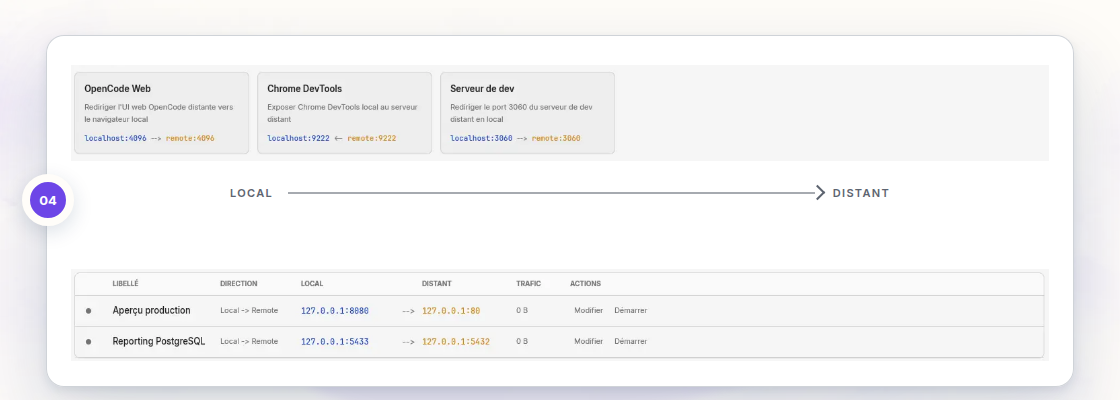
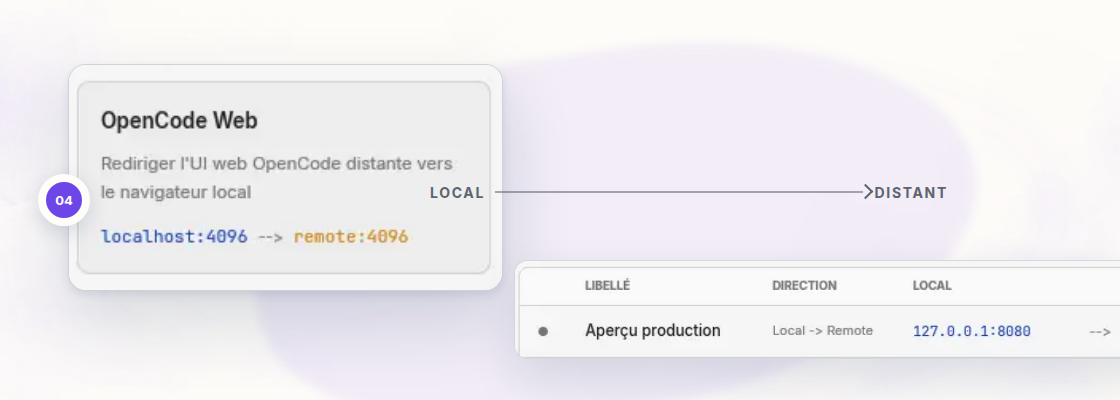
fix(onboarding): rebuild the three scenes that failed at display size
Authored by Codex from the correction brief; integrated unchanged. Only the
three slugs were re-exported, nothing else in the set moved.

The tunnels scene now shows one preset card enlarged, with `localhost:4096 -->
remote:4096` legible, and a single table row rather than the whole grid. The
support context scene shows one real message instead of anonymous blocks, so
there is something to read. The user follow scene drops the account card and
keeps the tab bar with `Mes demandes` active over three regular ghost rows.

All three now pass the criterion the brief added: shrunk to 560x200, the
subject is identifiable at a glance.

One residual point, and it comes from the fragment rather than the composition:
`user-tabs-only.png` still carries the grey band the tabs sit on, so that strip
reads heavier than the airy white around it. Cropping it out would cut into the
pills themselves; fixing it properly means compositing the tabs individually.
Not worth another round on its own — noted here so it is a decision rather than
an oversight.

diff --git a/docs/design/onboarding-role-visuals.html b/docs/design/onboarding-role-visuals.html
@@ -61,12 +61,18 @@
     #user-02 .float-pills .pill:nth-child(2){transform:translateX(42px)}
     #user-02 .float-pills .pill:nth-child(3){transform:translateX(8px)}
     #user-03 .paper{opacity:.25}
-    #user-03 .ghosts{position:absolute;inset:28px 100px;display:grid;grid-template-columns:1fr 1fr;gap:160px}
-    #user-03 .ghost-col{display:grid;gap:12px}
-    #user-03 .ghost{height:55px;border:1px solid #edf0f4;border-radius:18px;background:rgba(245,247,250,.86)}
-    #user-03 .window{left:258px;top:126px;width:606px;height:136px}
-    #user-03 .number{left:96px;top:174px}
-    #user-03 .route-line{position:absolute;left:140px;top:201px;width:123px;height:76px;border-left:2px solid var(--line);border-top:2px solid var(--line);border-radius:34px 0 0 0;transform:translateY(-1px)}
+    #user-03 .tabs-window{position:absolute;left:136px;top:47px;width:848px;height:65px;overflow:hidden;border:1px solid rgba(16,34,58,.18);border-radius:12px;background:white;box-shadow:0 16px 36px rgba(15,45,86,.12)}
+    #user-03 .tabs-window img{display:block;width:100%;height:100%}
+    #user-03 .request-list{position:absolute;left:176px;right:176px;top:150px;display:grid;gap:12px}
+    #user-03 .request-card{height:62px;display:flex;align-items:center;gap:15px;padding:0 22px;border:1px solid #edf0f4;border-radius:18px;background:rgba(245,247,250,.9)}
+    #user-03 .request-card::before{content:"";width:12px;height:12px;flex:none;border-radius:50%;background:rgba(20,107,255,.16)}
+    #user-03 .request-lines{display:grid;gap:8px;width:100%}
+    #user-03 .request-lines i{display:block;width:58%;height:7px;border-radius:7px;background:#dfe4ec}
+    #user-03 .request-lines i:last-child{width:34%;opacity:.72}
+    #user-03 .request-card:nth-child(2) .request-lines i:first-child{width:72%}
+    #user-03 .request-card:nth-child(3) .request-lines i:first-child{width:45%}
+    #user-03 .number{left:64px;top:57px}
+    #user-03 .route-line{position:absolute;left:108px;top:78px;width:425px;height:38px;overflow:visible}
     #user-04 .wash{right:-130px;bottom:-55px}
     #user-04 .window{right:38px;bottom:-20px;width:650px;height:191px}
     #user-04 .drafts{position:absolute;left:185px;top:66px;display:grid;gap:18px}
@@ -86,13 +92,13 @@
     #support-02 .filter:nth-child(2){transform:translateX(-42px);color:var(--coral);border-color:rgba(241,100,74,.24);background:rgba(241,100,74,.12)}
     #support-02 .filter:nth-child(3){transform:translateX(-8px)}
     #support-03 .paper{opacity:.22}
-    #support-03 .thread-window{position:absolute;left:70px;right:70px;top:33px;height:382px;overflow:hidden;border:1px solid rgba(16,34,58,.2);border-radius:18px;background:var(--soft);box-shadow:0 30px 70px rgba(15,45,86,.18),0 4px 10px rgba(15,45,86,.1)}
-    #support-03 .header-shot{position:absolute;left:0;right:0;top:0;width:100%;height:55px}
-    #support-03 .reply-shot{position:absolute;left:0;right:0;bottom:0;width:100%;height:77px}
-    #support-03 .thread{position:absolute;inset:76px 44px 96px;display:grid;align-content:center;gap:14px}
-    #support-03 .bubble{width:42%;height:36px;border-radius:12px;background:#e7ebf0}
-    #support-03 .bubble:nth-child(2){justify-self:end;width:35%;background:rgba(241,100,74,.1)}
-    #support-03 .bubble:nth-child(3){width:27%}
+    #support-03 .context-window{position:absolute;left:68px;right:34px;top:32px;height:386px;overflow:hidden;border:1px solid rgba(16,34,58,.2);border-radius:18px;background:rgba(245,247,250,.78);box-shadow:0 30px 70px rgba(15,45,86,.18),0 4px 10px rgba(15,45,86,.1)}
+    #support-03 .message-shot{position:absolute;left:22px;top:25px;width:1079px;height:68px;overflow:hidden;border:1px solid rgba(16,34,58,.12);border-radius:14px;background:white;box-shadow:0 12px 26px rgba(15,45,86,.08)}
+    #support-03 .message-shot img{display:block;width:100%;height:100%}
+    #support-03 .reply-draft{position:absolute;right:70px;top:136px;width:340px;height:76px;padding:21px 24px;border:1px solid rgba(241,100,74,.16);border-radius:16px;background:rgba(241,100,74,.09)}
+    #support-03 .reply-draft i{display:block;width:82%;height:7px;margin-bottom:11px;border-radius:7px;background:rgba(241,100,74,.15)}
+    #support-03 .reply-draft i:last-child{width:55%}
+    #support-03 .reply-shot{position:absolute;left:72px;bottom:-11px;width:1100px;height:88px}
     #support-03 .number{left:45px;top:176px}
     #support-04 .wash{left:-130px;top:28px}
     #support-04 .window{right:30px;top:50px;width:622px;height:275px;transform:rotate(2deg)}
@@ -133,13 +139,14 @@
     #dev-03 .execute-label::before{content:"";position:absolute;right:28px;bottom:100%;width:1px;height:53px;background:var(--violet);transform:rotate(22deg);transform-origin:bottom}
     #dev-03 .number{left:38px;top:62px}
     #dev-04 .wash{left:250px;top:50px;width:730px}
-    #dev-04 .tunnel-frame{position:absolute;left:46px;right:46px;top:35px;height:352px;padding:29px 24px;border:1px solid rgba(16,34,58,.2);border-radius:18px;background:rgba(255,255,255,.97);box-shadow:0 30px 70px rgba(15,45,86,.16),0 4px 10px rgba(15,45,86,.1)}
-    #dev-04 .tunnel-frame img{display:block;width:100%;height:96px}
-    #dev-04 .tunnel-frame img:last-child{position:absolute;left:24px;right:24px;bottom:25px;width:calc(100% - 48px);height:92px}
-    #dev-04 .flow{position:absolute;left:230px;right:230px;top:186px;display:flex;align-items:center;justify-content:space-between;color:var(--muted);font-size:11px;font-weight:600;letter-spacing:.12em;text-transform:uppercase}
-    #dev-04 .flow::before{content:"";position:absolute;left:58px;right:75px;top:6px;height:2px;background:var(--muted);opacity:.55}
-    #dev-04 .flow::after{content:"";position:absolute;right:67px;top:1px;width:9px;height:9px;border-top:2px solid var(--muted);border-right:2px solid var(--muted);transform:rotate(45deg)}
-    #dev-04 .number{left:22px;top:174px}
+    #dev-04 .single-preset{position:absolute;left:68px;top:64px;width:435px;height:227px;overflow:hidden;border:1px solid rgba(16,34,58,.2);border-radius:18px;background:white;box-shadow:0 30px 70px rgba(15,45,86,.16),0 4px 10px rgba(15,45,86,.1)}
+    #dev-04 .single-preset img{display:block;width:100%;height:100%}
+    #dev-04 .single-row{position:absolute;left:514px;top:260px;width:880px;height:99px;overflow:hidden;border:1px solid rgba(16,34,58,.18);border-radius:14px;background:white;box-shadow:0 20px 45px rgba(15,45,86,.13)}
+    #dev-04 .single-row img{display:block;width:100%;height:100%}
+    #dev-04 .flow{position:absolute;left:430px;right:172px;top:184px;display:flex;align-items:center;justify-content:space-between;color:var(--muted);font-size:14px;font-weight:700;letter-spacing:.12em;text-transform:uppercase}
+    #dev-04 .flow::before{content:"";position:absolute;left:65px;right:85px;top:7px;height:2px;background:var(--muted);opacity:.55}
+    #dev-04 .flow::after{content:"";position:absolute;right:77px;top:2px;width:9px;height:9px;border-top:2px solid var(--muted);border-right:2px solid var(--muted);transform:rotate(45deg)}
+    #dev-04 .number{left:38px;top:174px}
     #dev-05 .paper{opacity:.3}
     #dev-05 .window{left:190px;top:148px;width:740px;height:218px}
     #dev-05 .mentions{position:absolute;left:245px;top:55px;display:flex;gap:22px}
@@ -178,19 +185,19 @@
   <main>
     <article data-export="user-01-welcome"><section class="banner user welcome" id="user-01"><img class="paper" src="onboarding/watercolor-user.webp" alt=""><div class="wash"></div><div class="welcome-copy"><div class="eyebrow">Votre lien direct</div><div class="wordmark"><img src="../../crates/shelldeck/assets/images/brand/svg/expressions/light-default-logo.svg" alt=""><span>Shell<span class="accent-word">Deck</span></span></div></div><div class="number">01</div></section><div class="meta"><strong>Utilisateur · Bienvenue</strong><span>U-01</span></div></article>
     <article data-export="user-02-request"><section class="banner user" id="user-02"><img class="paper" src="onboarding/watercolor-user.webp" alt=""><div class="wash"></div><div class="eyebrow">Une demande, au bon endroit</div><div class="float-pills"><div class="pill">SITE</div><div class="pill">PRIORITÉ</div><div class="pill"><img src="../../crates/shelldeck/assets/icons/lucide/paperclip.svg" alt=""> PIÈCE JOINTE</div></div><div class="window"><img src="onboarding/fragments/user-request-panel.png" alt=""></div><div class="number">02</div></section><div class="meta"><strong>Utilisateur · Déposer une demande</strong><span>U-02</span></div></article>
-    <article data-export="user-03-follow"><section class="banner user" id="user-03"><img class="paper" src="onboarding/watercolor-user.webp" alt=""><div class="ghosts"><div class="ghost-col"><div class="ghost"></div><div class="ghost"></div></div><div class="ghost-col"><div class="ghost"></div><div class="ghost"></div></div></div><div class="window"><img src="onboarding/fragments/user-identity-tabs.png" alt=""></div><div class="route-line"></div><div class="number">03</div></section><div class="meta"><strong>Utilisateur · Suivre ses demandes et ses sites</strong><span>U-03</span></div></article>
+    <article data-export="user-03-follow"><section class="banner user" id="user-03"><img class="paper" src="onboarding/watercolor-user.webp" alt=""><div class="tabs-window"><img src="onboarding/fragments/user-tabs-only.png" alt=""></div><div class="request-list"><div class="request-card"><div class="request-lines"><i></i><i></i></div></div><div class="request-card"><div class="request-lines"><i></i><i></i></div></div><div class="request-card"><div class="request-lines"><i></i><i></i></div></div></div><svg class="route-line" viewBox="0 0 425 38" fill="none" aria-hidden="true"><path d="M0 20 C110 20 250 0 425 0" stroke="#dfe4ec" stroke-width="2"/></svg><div class="number">03</div></section><div class="meta"><strong>Utilisateur · Suivre ses demandes et ses sites</strong><span>U-03</span></div></article>
     <article data-export="user-04-ai"><section class="banner user" id="user-04"><img class="paper" src="onboarding/watercolor-user.webp" alt=""><div class="wash"></div><div class="drafts"><div class="draft"><i></i><i></i></div><div class="draft"><i></i><i></i></div></div><img class="sparkle" src="../../crates/shelldeck/assets/icons/lucide/sparkles.svg" alt=""><div class="window"><img src="onboarding/fragments/ai-composer.png" alt=""></div><div class="number">04</div></section><div class="meta"><strong>Utilisateur · L’IA prépare le brouillon</strong><span>U-04</span></div></article>
 
     <article data-export="support-01-welcome"><section class="banner support welcome" id="support-01"><img class="paper" src="onboarding/watercolor-user.webp" alt=""><div class="wash"></div><div class="welcome-copy"><div class="eyebrow">Une file, tout le contexte</div><div class="wordmark"><img src="../../crates/shelldeck/assets/images/brand/svg/expressions/light-default-logo.svg" alt=""><span>Shell<span class="accent-word">Deck</span></span></div></div><div class="queue-lines"><i></i><i></i><i></i></div><div class="number">01</div></section><div class="meta"><strong>Support · Bienvenue</strong><span>S-01</span></div></article>
     <article data-export="support-02-prioritize"><section class="banner support" id="support-02"><img class="paper" src="onboarding/watercolor-user.webp" alt=""><div class="wash"></div><div class="window"><img src="onboarding/fragments/support-queue.png" alt=""></div><div class="filters"><div class="filter">À traiter</div><div class="filter">En cours</div><div class="filter">Résolues</div></div><div class="number">02</div></section><div class="meta"><strong>Support · Filtrer, assigner, prioriser</strong><span>S-02</span></div></article>
-    <article data-export="support-03-context"><section class="banner support" id="support-03"><img class="paper" src="onboarding/watercolor-user.webp" alt=""><div class="thread-window"><img class="header-shot" src="onboarding/fragments/support-detail-header.png" alt=""><div class="thread"><div class="bubble"></div><div class="bubble"></div><div class="bubble"></div></div><img class="reply-shot" src="onboarding/fragments/support-reply-composer.png" alt=""></div><div class="number">03</div></section><div class="meta"><strong>Support · Répondre dans le contexte</strong><span>S-03</span></div></article>
+    <article data-export="support-03-context"><section class="banner support" id="support-03"><img class="paper" src="onboarding/watercolor-user.webp" alt=""><div class="context-window"><div class="message-shot"><img src="onboarding/fragments/support-message-single.png" alt=""></div><div class="reply-draft"><i></i><i></i></div><img class="reply-shot" src="onboarding/fragments/support-reply-composer.png" alt=""></div><div class="number">03</div></section><div class="meta"><strong>Support · Répondre dans le contexte</strong><span>S-03</span></div></article>
     <article data-export="support-04-ai"><section class="banner support" id="support-04"><img class="paper" src="onboarding/watercolor-user.webp" alt=""><div class="wash"></div><div class="message-source"><i></i><i></i></div><div class="arrow"></div><div class="window"><img src="onboarding/fragments/ai-assistant-hero.png" alt=""></div><div class="number">04</div></section><div class="meta"><strong>Support · L’IA prépare la réponse</strong><span>S-04</span></div></article>
     <article data-export="support-05-modes"><section class="banner support" id="support-05"><img class="paper" src="onboarding/watercolor-user.webp" alt=""><div class="switch-cards"><div class="switch-card"><img class="switch-watermark" src="../../crates/shelldeck/assets/icons/lucide/user.svg" alt=""><img class="switch-icon" src="../../crates/shelldeck/assets/icons/lucide/user.svg" alt=""><span>Utilisateur</span></div><div class="switch-card"><img class="switch-watermark" src="../../crates/shelldeck/assets/icons/lucide/shield-check.svg" alt=""><img class="switch-icon" src="../../crates/shelldeck/assets/icons/lucide/shield-check.svg" alt=""><span>Support</span></div></div><div class="eyebrow switch-label">Changer de mode</div><div class="number">05</div></section><div class="meta"><strong>Support · Basculer de mode</strong><span>S-05</span></div></article>
 
     <article data-export="dev-01-welcome"><section class="banner dev welcome" id="dev-01"><img class="paper" src="onboarding/watercolor-user.webp" alt=""><div class="wash"></div><div class="welcome-copy"><div class="eyebrow">Le poste de pilotage complet</div><div class="wordmark"><img src="../../crates/shelldeck/assets/images/brand/svg/expressions/light-default-logo.svg" alt=""><span>Shell<span class="accent-word">Deck</span></span></div></div><div class="terminal-line"></div><div class="number">01</div></section><div class="meta"><strong>Dev · Bienvenue</strong><span>D-01</span></div></article>
     <article data-export="dev-02-terminal"><section class="banner dev" id="dev-02"><img class="paper" src="onboarding/watercolor-user.webp" alt=""><div class="ghost-window g1"></div><div class="ghost-window g2"></div><div class="hosts"><i></i><i></i><i></i></div><div class="window"><img src="onboarding/fragments/dev-terminal-output.png" alt=""></div><div class="number">02</div></section><div class="meta"><strong>Dev · Terminaux et SSH</strong><span>D-02</span></div></article>
     <article data-export="dev-03-scripts"><section class="banner dev" id="dev-03"><img class="paper" src="onboarding/watercolor-user.webp" alt=""><div class="wash"></div><div class="script-list"><img src="onboarding/fragments/dev-script-list.png" alt=""></div><div class="window"><img src="onboarding/fragments/dev-script-editor.png" alt=""></div><div class="execute-label">Exécuter</div><div class="number">03</div></section><div class="meta"><strong>Dev · Scripts réutilisables</strong><span>D-03</span></div></article>
-    <article data-export="dev-04-tunnels"><section class="banner dev" id="dev-04"><img class="paper" src="onboarding/watercolor-user.webp" alt=""><div class="wash"></div><div class="tunnel-frame"><img src="onboarding/fragments/dev-tunnel-presets.png" alt=""><img src="onboarding/fragments/dev-tunnel-table.png" alt=""></div><div class="flow"><span>local</span><span>distant</span></div><div class="number">04</div></section><div class="meta"><strong>Dev · Tunnels et redirections</strong><span>D-04</span></div></article>
+    <article data-export="dev-04-tunnels"><section class="banner dev" id="dev-04"><img class="paper" src="onboarding/watercolor-user.webp" alt=""><div class="wash"></div><div class="single-preset"><img src="onboarding/fragments/dev-tunnel-card-single.png" alt=""></div><div class="single-row"><img src="onboarding/fragments/dev-tunnel-row-single.png" alt=""></div><div class="flow"><span>local</span><span>distant</span></div><div class="number">04</div></section><div class="meta"><strong>Dev · Tunnels et redirections</strong><span>D-04</span></div></article>
     <article data-export="dev-05-ai"><section class="banner dev" id="dev-05"><img class="paper" src="onboarding/watercolor-user.webp" alt=""><div class="mentions"><div class="mention"><img src="../../crates/shelldeck/assets/icons/lucide/server.svg" alt="">Serveur</div><div class="mention"><img src="../../crates/shelldeck/assets/icons/lucide/tag.svg" alt="">Ticket</div><div class="mention"><img src="../../crates/shelldeck/assets/icons/lucide/route.svg" alt="">Tunnel</div></div><div class="drop-line l1"></div><div class="drop-line l2"></div><div class="drop-line l3"></div><div class="window"><img src="onboarding/fragments/ai-composer.png" alt=""></div><div class="number">05</div></section><div class="meta"><strong>Dev · L’assistant et ses mentions</strong><span>D-05</span></div></article>
     <article data-export="dev-06-modes"><section class="banner dev" id="dev-06"><img class="paper" src="onboarding/watercolor-user.webp" alt=""><div class="mode-cards"><div class="mode-card"><img class="mode-watermark" src="../../crates/shelldeck/assets/icons/lucide/user.svg" alt=""><img class="mode-icon" src="../../crates/shelldeck/assets/icons/lucide/user.svg" alt=""><span class="mode-name">User</span></div><div class="mode-card"><img class="mode-watermark" src="../../crates/shelldeck/assets/icons/lucide/shield-check.svg" alt=""><img class="mode-icon" src="../../crates/shelldeck/assets/icons/lucide/shield-check.svg" alt=""><span class="mode-name">Support</span></div><div class="mode-card"><img class="mode-watermark" src="../../crates/shelldeck/assets/icons/lucide/cpu.svg" alt=""><img class="mode-icon" src="../../crates/shelldeck/assets/icons/lucide/cpu.svg" alt=""><span class="mode-name">Dev</span></div></div><div class="keys"><div class="key">Ctrl</div><div class="key">K</div></div><div class="number">06</div></section><div class="meta"><strong>Dev · Modes et raccourcis</strong><span>D-06</span></div></article>
   </main>

diff --git a/docs/design/onboarding/README.md b/docs/design/onboarding/README.md
@@ -9,7 +9,7 @@ La production finale se trouve dans
 
 Les quinze images font exactement **1120 × 400 px**. Elles sont exportées en
 **WebP lossless** afin de préserver les textes et les traits des captures UI.
-Le lot complet pèse environ 800 Kio. La planche de contrôle est
+Le lot complet pèse environ 820 Kio. La planche de contrôle est
 `role-aware-contact-sheet.webp`.
 
 ## Reproduire les exports
@@ -20,6 +20,13 @@ pastilles, fils, cartes fantômes et autres ornements en HTML/CSS.
 
 ```bash
 node scripts/export-onboarding-images.mjs
+```
+
+Pour ne régénérer qu’une sélection de scènes :
+
+```bash
+node scripts/export-onboarding-images.mjs \
+  --only=user-03-follow,support-03-context,dev-04-tunnels
 ```
 
 Chrome capture d’abord chaque scène dans un PNG temporaire, puis ImageMagick
